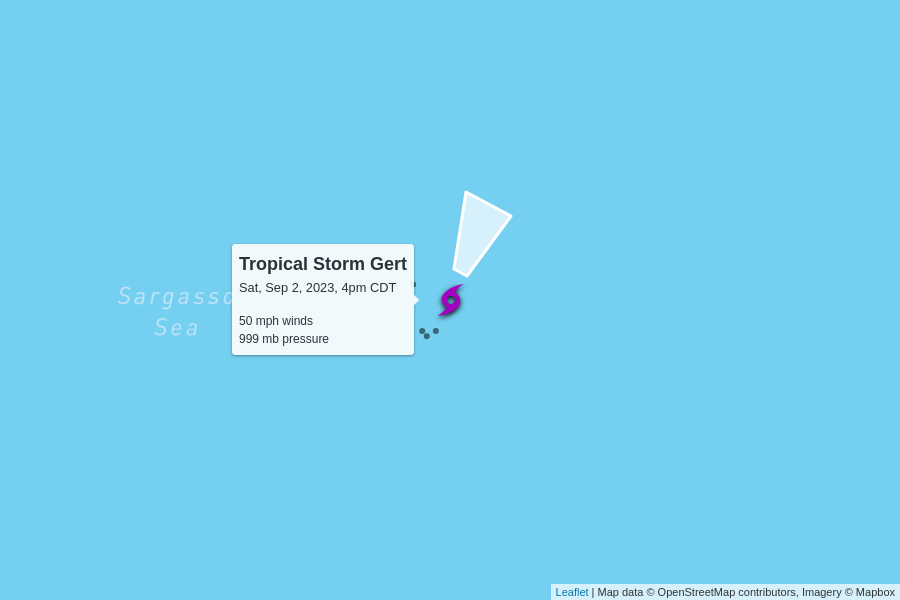
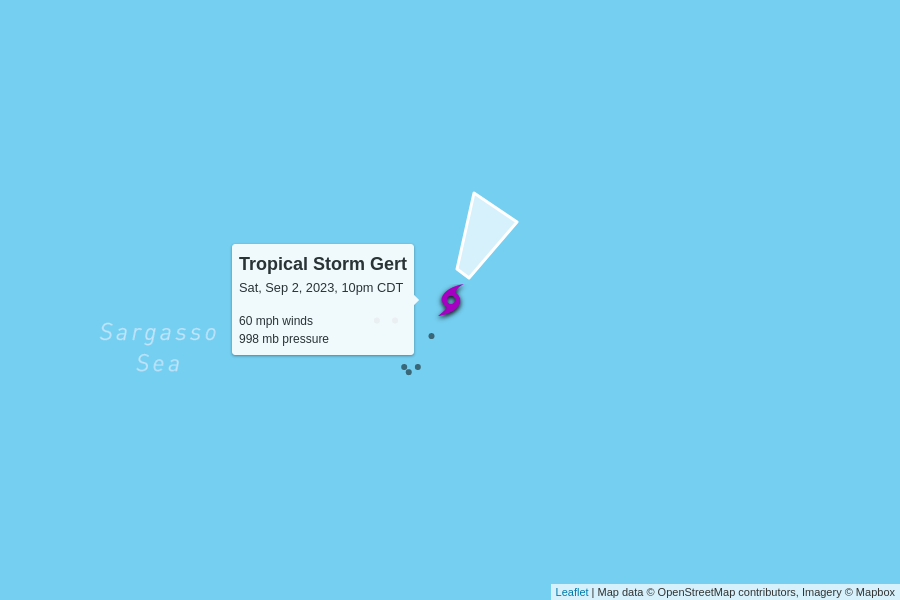
automatic update

diff --git a/docs/index.html b/docs/index.html
@@ -104,7 +104,7 @@
         <td colspan="6" class="storm category-0" >
           <h2>
             Tropical Storm Gert
-            <p class="updated">last updated <span data-time>2023-09-02T21:00:00.000Z</span></p>
+            <p class="updated">last updated <span data-time>2023-09-03T03:00:00.000Z</span></p>
           </h2>
         </td>
       </tr>
@@ -119,12 +119,12 @@
       </tr>
       <tr>
         <td class="spacer"></td>
-        <td>50 mph<br>0 mph since last update</td>
-        <td>999 mb<br>0 mb since last update</td>
+        <td>60 mph<br>+10 mph since last update</td>
+        <td>998 mb<br>-1 mb since last update</td>
         <td>
-          9 mph to the north-northeast
+          6 mph to the north-northeast
           <br/>
-          <span style="display: inline-block; font-size: 1.5em; transform: rotate(25deg);">↑</span>
+          <span style="display: inline-block; font-size: 1.5em; transform: rotate(30deg);">↑</span>
         </td>
         <td><a href="https://raw.githubusercontent.com/mgwalker/atlantic-hurricanes/main/data/csv/AL062023.csv">AL062023.csv</a></td>
         <td><a href="https://www.nhc.noaa.gov/archive/2023/GERT.shtml?">NHC advisories</a></td>
@@ -134,6 +134,50 @@
         <td colspan="5">
           <figure>
             <img src="AL062023.png">
+            <figcaption>
+              Map data &copy; <a href="https://www.openstreetmap.org/copyright">OpenStreetMap</a> contributors,
+              Imagery &copy; <a href="https://www.mapbox.com/">Mapbox</a> |
+              <a href="https://www.mapbox.com/map-feedback/" target="_blank">Improve this map</a>
+            </figcaption>
+          </figure>
+        </td>
+      </tr>
+      
+
+      <tr>
+        <td colspan="6" class="storm category-0" >
+          <h2>
+            Tropical Storm Katia
+            <p class="updated">last updated <span data-time>2023-09-03T03:00:00.000Z</span></p>
+          </h2>
+        </td>
+      </tr>
+      
+      <tr>
+        <th class="spacer"></th>
+        <th>wind speed</th>
+        <th>central pressure</th>
+        <th>movement</th>
+        <th>data (CSV)</th>
+        <th>National Hurricane Center</th>
+      </tr>
+      <tr>
+        <td class="spacer"></td>
+        <td>45 mph<br>-15 mph since last update</td>
+        <td>1002 mb<br>+4 mb since last update</td>
+        <td>
+          16 mph to the north-northwest
+          <br/>
+          <span style="display: inline-block; font-size: 1.5em; transform: rotate(340deg);">↑</span>
+        </td>
+        <td><a href="https://raw.githubusercontent.com/mgwalker/atlantic-hurricanes/main/data/csv/AL122023.csv">AL122023.csv</a></td>
+        <td><a href="https://www.nhc.noaa.gov/archive/2023/KATIA.shtml?">NHC advisories</a></td>
+      </tr>
+      <tr id="storm_AL122023" >
+        <td class="spacer">
+        <td colspan="5">
+          <figure>
+            <img src="AL122023.png">
             <figcaption>
               Map data &copy; <a href="https://www.openstreetmap.org/copyright">OpenStreetMap</a> contributors,
               Imagery &copy; <a href="https://www.mapbox.com/">Mapbox</a> |
@@ -156,50 +200,6 @@
         <td colspan="5">
           <figure>
             <img src="AL102023.png">
-            <figcaption>
-              Map data &copy; <a href="https://www.openstreetmap.org/copyright">OpenStreetMap</a> contributors,
-              Imagery &copy; <a href="https://www.mapbox.com/">Mapbox</a> |
-              <a href="https://www.mapbox.com/map-feedback/" target="_blank">Improve this map</a>
-            </figcaption>
-          </figure>
-        </td>
-      </tr>
-      
-
-      <tr>
-        <td colspan="6" class="storm category-0" >
-          <h2>
-            Tropical Storm Katia
-            <p class="updated">last updated <span data-time>2023-09-02T21:00:00.000Z</span></p>
-          </h2>
-        </td>
-      </tr>
-      
-      <tr>
-        <th class="spacer"></th>
-        <th>wind speed</th>
-        <th>central pressure</th>
-        <th>movement</th>
-        <th>data (CSV)</th>
-        <th>National Hurricane Center</th>
-      </tr>
-      <tr>
-        <td class="spacer"></td>
-        <td>60 mph<br>+10 mph since last update</td>
-        <td>998 mb<br>-2 mb since last update</td>
-        <td>
-          13 mph to the northwest
-          <br/>
-          <span style="display: inline-block; font-size: 1.5em; transform: rotate(320deg);">↑</span>
-        </td>
-        <td><a href="https://raw.githubusercontent.com/mgwalker/atlantic-hurricanes/main/data/csv/AL122023.csv">AL122023.csv</a></td>
-        <td><a href="https://www.nhc.noaa.gov/archive/2023/KATIA.shtml?">NHC advisories</a></td>
-      </tr>
-      <tr id="storm_AL122023" >
-        <td class="spacer">
-        <td colspan="5">
-          <figure>
-            <img src="AL122023.png">
             <figcaption>
               Map data &copy; <a href="https://www.openstreetmap.org/copyright">OpenStreetMap</a> contributors,
               Imagery &copy; <a href="https://www.mapbox.com/">Mapbox</a> |
